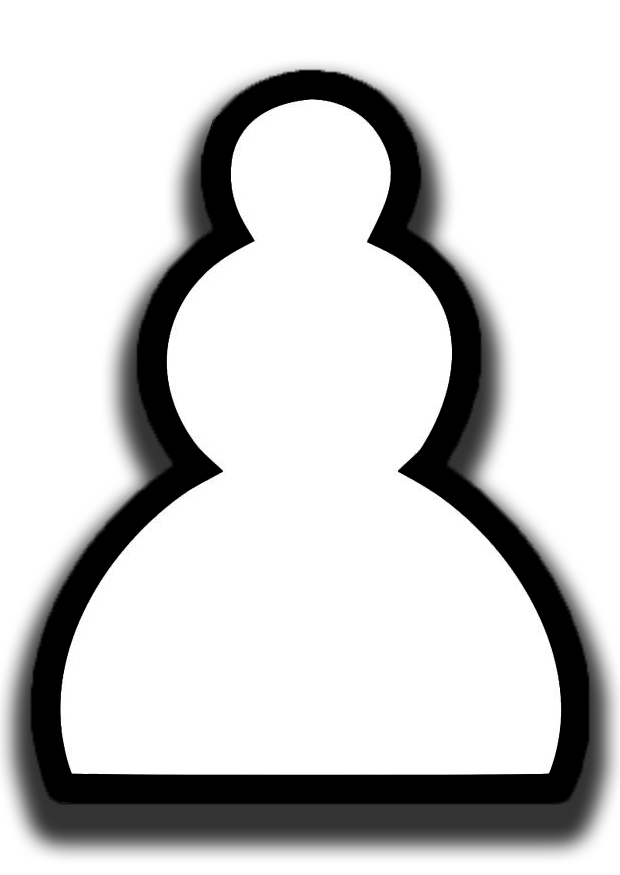
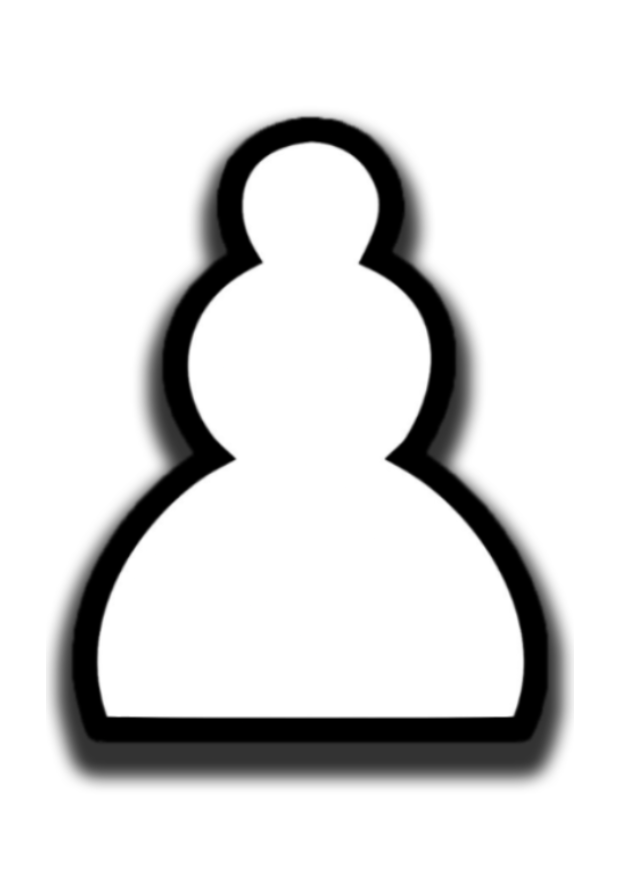
Fixing small bugs

diff --git a/CheckGrid/lib/game/game_board.dart b/CheckGrid/lib/game/game_board.dart
@@ -92,12 +92,26 @@ class _BoardCellState extends State<BoardCell> with TickerProviderStateMixin {
       end: 1.0,
     ).animate(CurvedAnimation(parent: _hoverController, curve: Curves.easeOut));
 
-    _bounceAnimation = Tween<double>(begin: 1.0, end: 1.2).animate(
+    _bounceAnimation = Tween<double>(begin: 1.0, end: 1.1).animate(
       CurvedAnimation(
         parent: _placementController,
-        curve: Interval(0.7, 1.0, curve: Curves.bounceOut),
+        curve: Interval(0.8, 1.0, curve: Curves.elasticOut),
       ),
     );
+  }
+
+  @override
+  void didChangeDependencies() {
+    super.didChangeDependencies();
+
+    // Sätt placement controller till slutposition för befintliga pjäser
+    WidgetsBinding.instance.addPostFrameCallback((_) {
+      final cell = context.read<Cell>();
+      if (cell.piece != null && _placementController.value == 0.0) {
+        _placementController.value =
+            1.0; // Sätt till slutposition utan animation
+      }
+    });
   }
 
   @override
@@ -167,7 +181,9 @@ class _BoardCellState extends State<BoardCell> with TickerProviderStateMixin {
                   _hoverController,
                 ]),
                 builder: (context, child) {
-                  double hoverScale = 1.0 + (_glowAnimation.value * 0.1);
+                  double hoverScale =
+                      1.0 +
+                      (_glowAnimation.value * 0.05); // Mindre hover-effekt
                   // Bara animera scale när pjäs placeras, annars alltid 1.0
                   double placementScale =
                       cell.piece != null ? _scaleAnimation.value : 1.0;
@@ -274,7 +290,7 @@ class _BoardCellState extends State<BoardCell> with TickerProviderStateMixin {
       )) {
         glowColor = Color.fromRGBO(246, 216, 99, 1.0); // Gul
       } else {
-        glowColor = Colors.white; // fallback
+        glowColor = Colors.blue; // fallback
       }
 
       shadows.add(
@@ -290,7 +306,12 @@ class _BoardCellState extends State<BoardCell> with TickerProviderStateMixin {
     if (_placementController.isAnimating && cell.piece != null) {
       shadows.add(
         BoxShadow(
-          color: Colors.green.withOpacity(0.8 * _placementController.value),
+          color: const Color.fromARGB(
+            255,
+            17,
+            174,
+            232,
+          ).withOpacity(0.8 * _placementController.value),
           blurRadius: 20 * _placementController.value,
           spreadRadius: 5 * _placementController.value,
         ),

diff --git a/CheckGrid/lib/providers/general_provider.dart b/CheckGrid/lib/providers/general_provider.dart
@@ -13,8 +13,8 @@ class GeneralProvider with ChangeNotifier {
 
   // General constants
   final double iconSize = 50.0;
-  static final int boardHeight = 9; // Default 8
-  static final int boardWidth = 9; // Default 8
+  static final int boardHeight = 8; // Default 8
+  static final int boardWidth = 8; // Default 8
 
   // Game constants
   final int comboRequirement = 6;

diff --git a/CheckGrid/lib/components/custom_navigation_bar.dart b/CheckGrid/lib/components/custom_navigation_bar.dart
@@ -114,7 +114,7 @@ class CustomBottomNav extends StatelessWidget {
             icon,
             color:
                 isSelected
-                    ? CupertinoColors.systemBlue
+                    ? CupertinoColors.white
                     : Colors.white.withOpacity(0.7),
           ),
         ),

diff --git a/CheckGrid/lib/pages/store/store_page.dart b/CheckGrid/lib/pages/store/store_page.dart
@@ -13,9 +13,6 @@ class StorePage extends StatefulWidget {
 }
 
 class _StorePageState extends State<StorePage> {
-  final int adsRequiredForSkin = 20;
-  int rewardedAdsWatched = 2;
-
   @override
   Widget build(BuildContext context) {
     final skinProvider = context.watch<SkinProvider>();

diff --git a/CheckGrid/README.md b/CheckGrid/README.md
@@ -18,10 +18,12 @@ To do:
     DONE: Buy domain
 
     Remake Widget methods to classes for performance increase
+    Change game over sound
+    Change size of pawns! and rooks?
 
     Animations:
     New highscore
-    Place piece
+    CURRENT: Place piece
     Clear cells with animation
     Game over
     Revive
